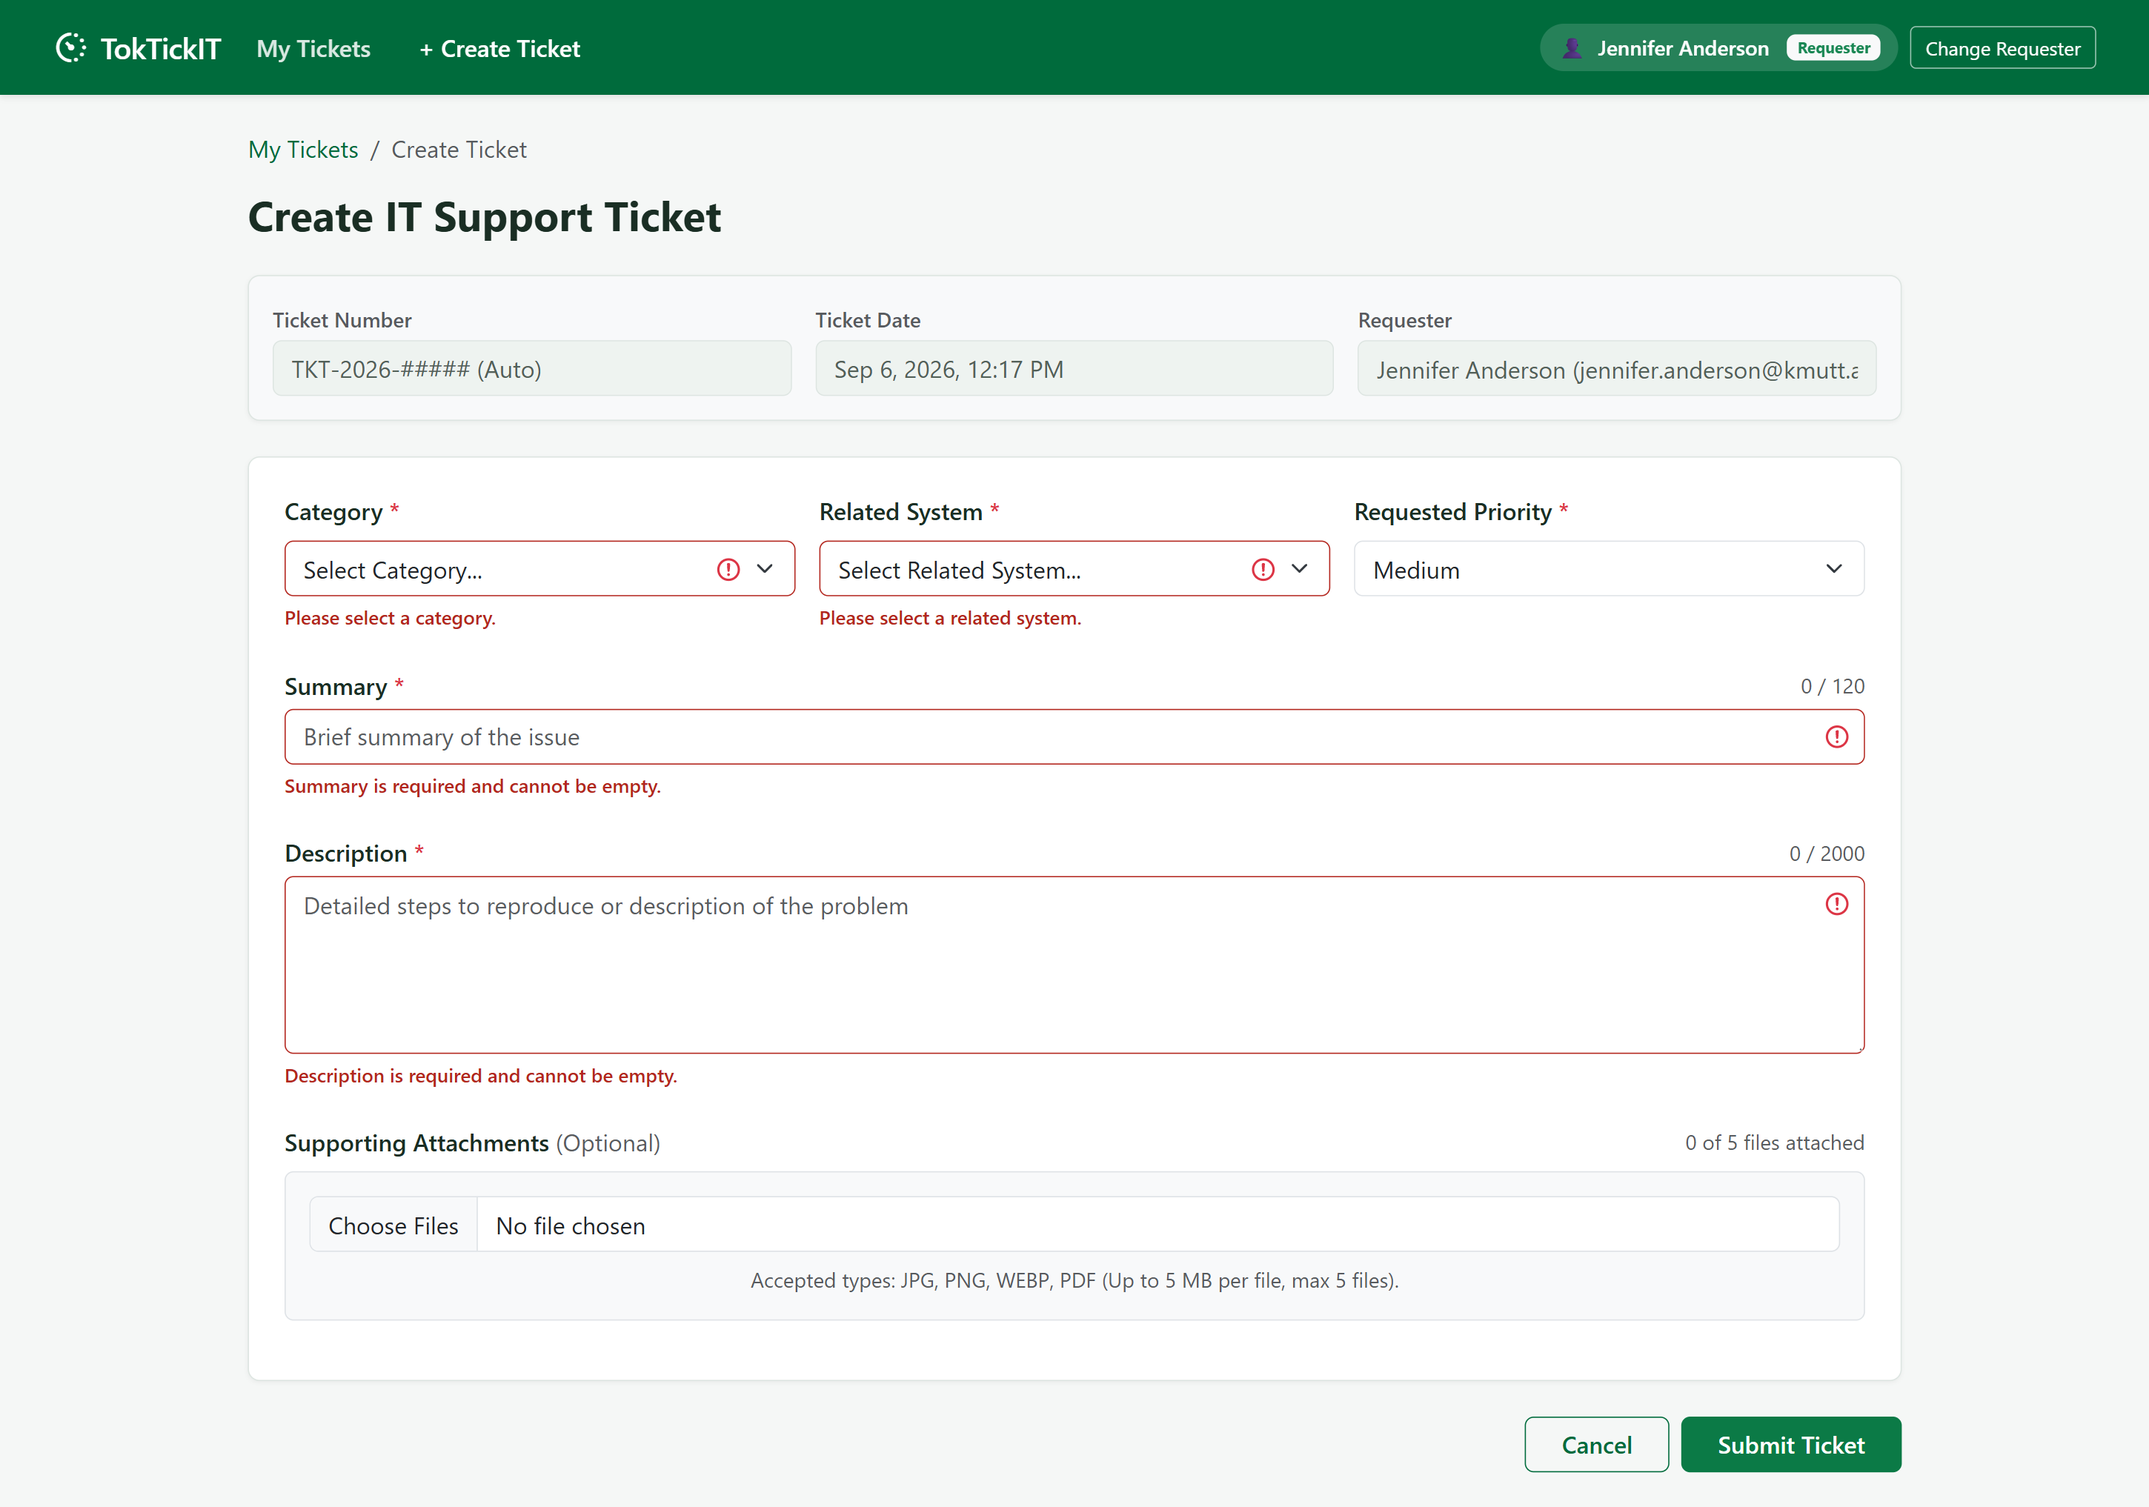
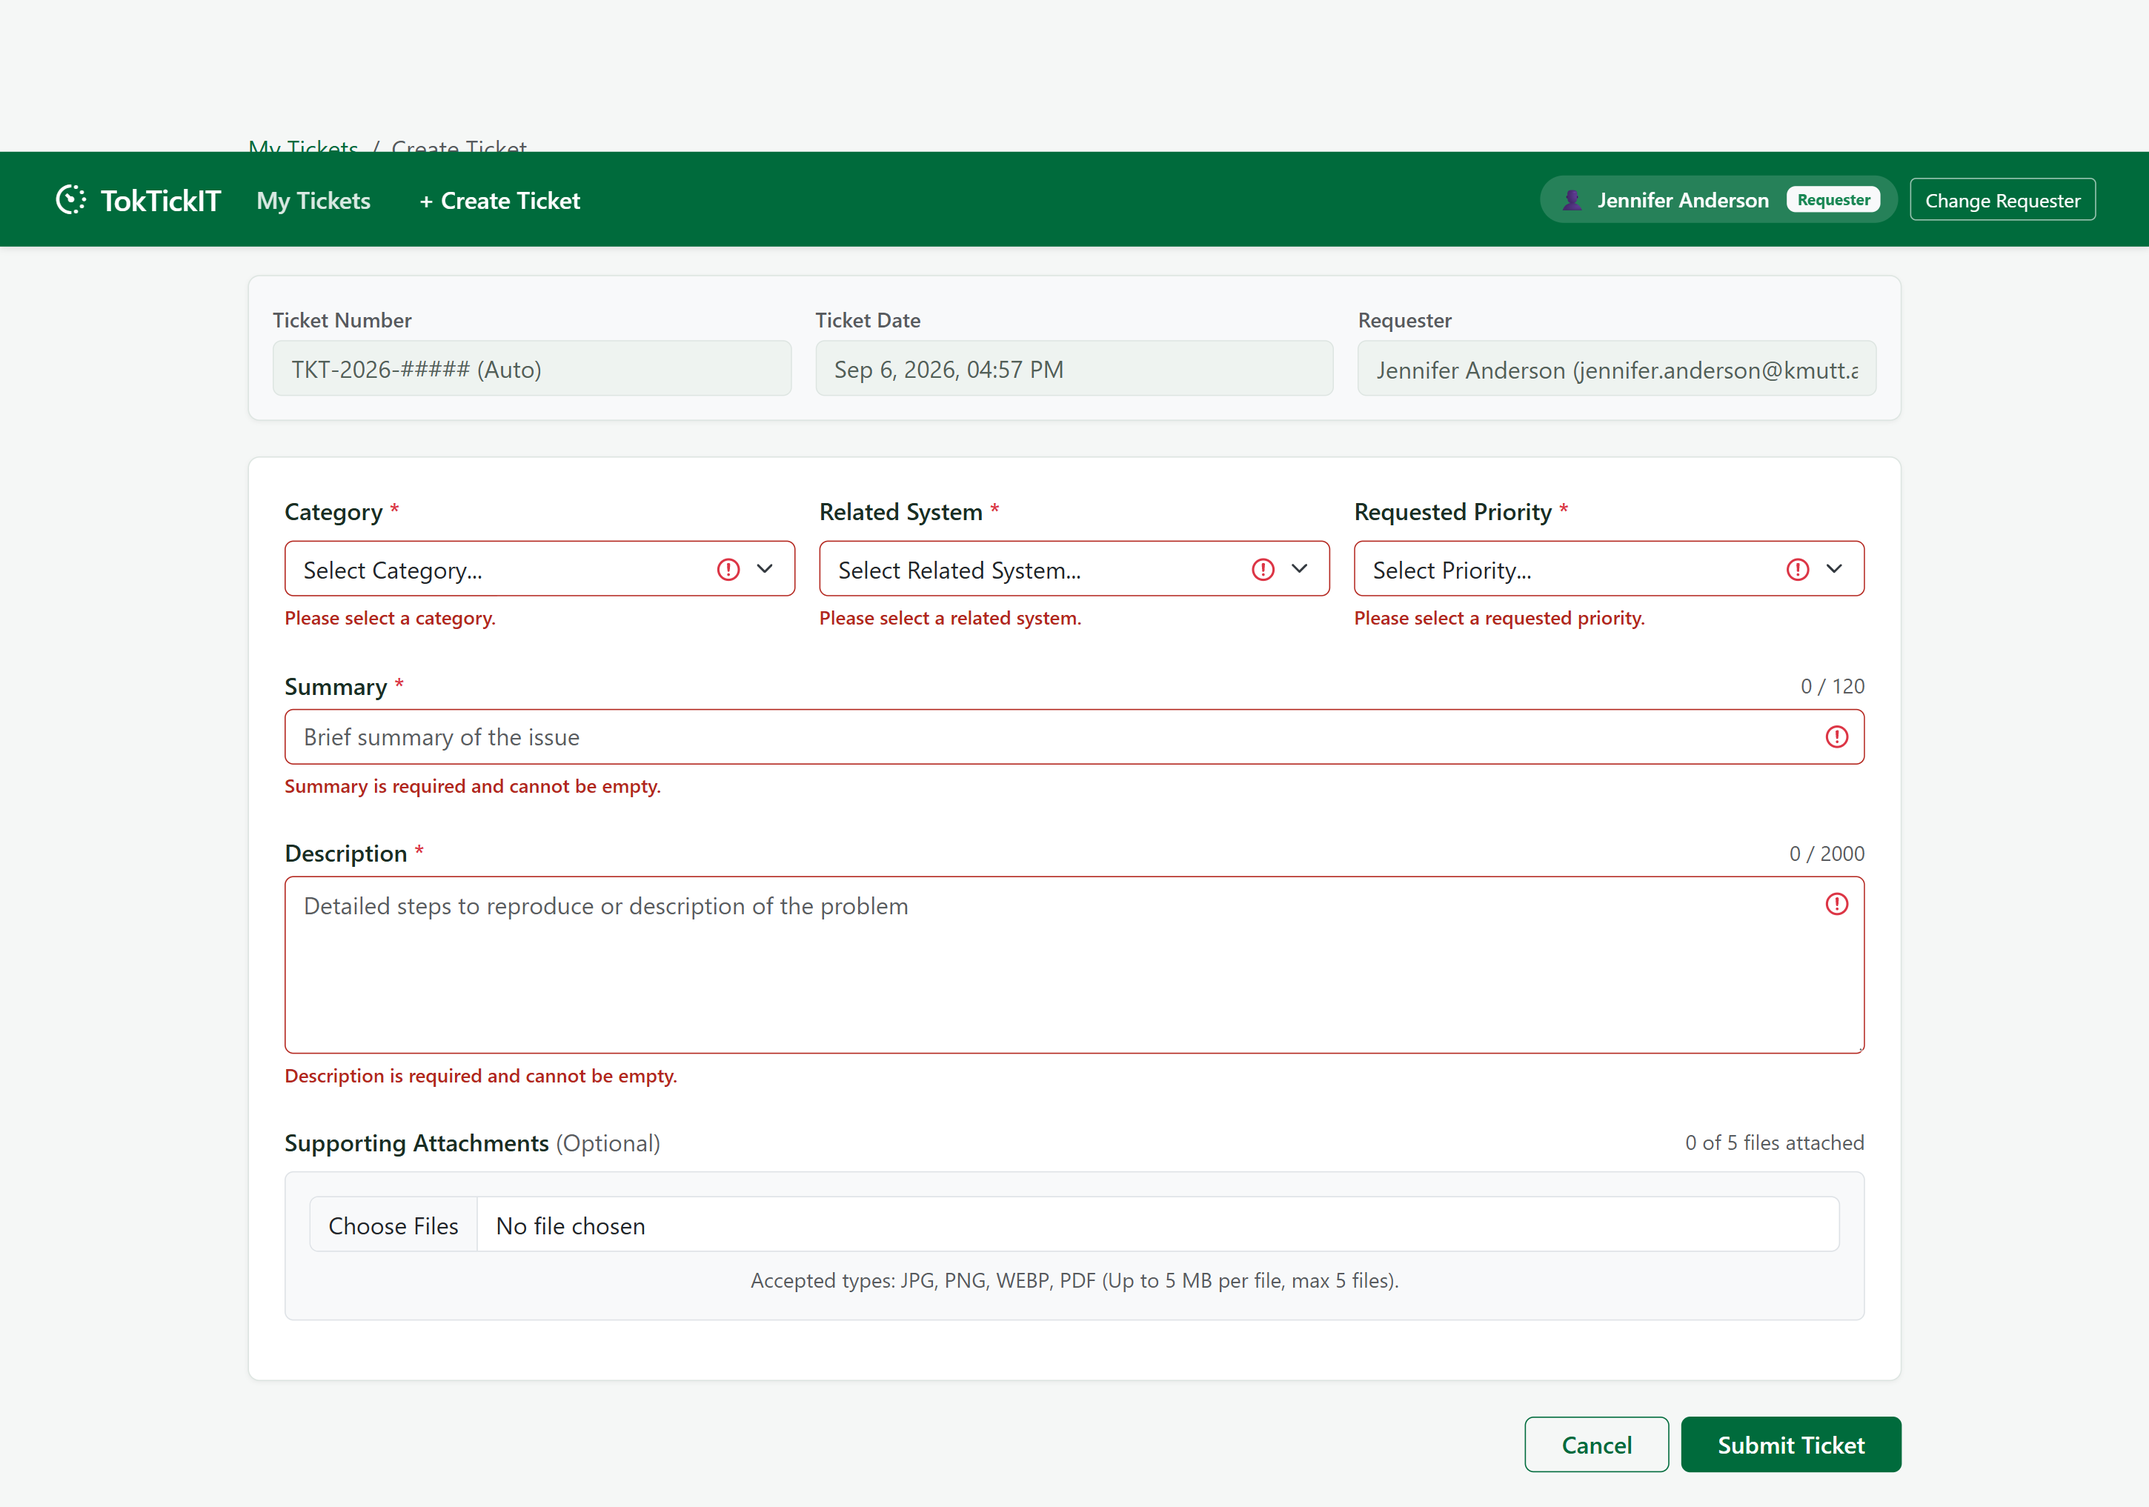
fix create screen priority selection: should be emoty at start

Changed region(s): [[0.0, 0.0929, 1.0, 0.1858], [0.0, 0.0, 1.0, 0.0619], [0.6207, 0.3717, 0.7448, 0.4336]]

diff --git a/client/src/components/CreateTicket.js b/client/src/components/CreateTicket.js
@@ -15,7 +15,7 @@ export default function CreateTicket({ onCancel, onTicketCreated, onViewDetail }
     // Form Fields
     const [categoryId, setCategoryId] = useState("");
     const [relatedSystemId, setRelatedSystemId] = useState("");
-    const [requestedPriority, setRequestedPriority] = useState("MEDIUM");
+    const [requestedPriority, setRequestedPriority] = useState("");
     const [summary, setSummary] = useState("");
     const [description, setDescription] = useState("");
     const [attachments, setAttachments] = useState([]);
@@ -147,6 +147,9 @@ export default function CreateTicket({ onCancel, onTicketCreated, onViewDetail }
         if (!relatedSystemId) {
             newErrors.relatedSystemId = "Please select a related system.";
         }
+        if (!requestedPriority) {
+            newErrors.requestedPriority = "Please select a requested priority.";
+        }
         setErrors(newErrors);
         return Object.keys(newErrors).length === 0;
     };
@@ -209,6 +212,8 @@ export default function CreateTicket({ onCancel, onTicketCreated, onViewDetail }
                             apiFieldErrors.categoryId = fe.message;
                         if (fe.field === "relatedSystemId")
                             apiFieldErrors.relatedSystemId = fe.message;
+                        if (fe.field === "requestedPriority")
+                            apiFieldErrors.requestedPriority = fe.message;
                     }
                     setErrors(apiFieldErrors);
                 }
@@ -247,7 +252,11 @@ export default function CreateTicket({ onCancel, onTicketCreated, onViewDetail }
                                                     setRelatedSystemId(e.target.value);
                                                     if (errors.relatedSystemId)
                                                         setErrors((prev) => ({ ...prev, relatedSystemId: undefined }));
-                                                }, disabled: loadingRefData, children: [_jsx("option", { value: "", children: loadingRefData ? "Loading systems..." : "Select Related System..." }), systems.map((s) => (_jsx("option", { value: s.id, children: s.name }, s.id)))] }), errors.relatedSystemId && (_jsx("div", { className: "zen-field-error", role: "alert", children: errors.relatedSystemId }))] }), _jsxs("div", { className: "col-md-4", children: [_jsxs("label", { htmlFor: "requestedPriority", className: "form-label fw-semibold", children: ["Requested Priority ", _jsx("span", { className: "text-danger", children: "*" })] }), _jsxs("select", { id: "requestedPriority", className: "form-select", value: requestedPriority, onChange: (e) => setRequestedPriority(e.target.value), children: [_jsx("option", { value: "LOW", children: "Low" }), _jsx("option", { value: "MEDIUM", children: "Medium" }), _jsx("option", { value: "HIGH", children: "High" }), _jsx("option", { value: "URGENT", children: "Urgent" })] })] })] }), _jsxs("div", { className: "mb-4", children: [_jsxs("div", { className: "d-flex justify-content-between align-items-center mb-1", children: [_jsxs("label", { htmlFor: "summary", className: "form-label fw-semibold mb-0", children: ["Summary ", _jsx("span", { className: "text-danger", children: "*" })] }), _jsxs("span", { className: "small text-muted", children: [summary.length, " / 120"] })] }), _jsx("input", { id: "summary", type: "text", className: `form-control ${errors.summary ? "is-invalid" : ""}`, placeholder: "Brief summary of the issue", value: summary, maxLength: 120, onChange: (e) => {
+                                                }, disabled: loadingRefData, children: [_jsx("option", { value: "", children: loadingRefData ? "Loading systems..." : "Select Related System..." }), systems.map((s) => (_jsx("option", { value: s.id, children: s.name }, s.id)))] }), errors.relatedSystemId && (_jsx("div", { className: "zen-field-error", role: "alert", children: errors.relatedSystemId }))] }), _jsxs("div", { className: "col-md-4", children: [_jsxs("label", { htmlFor: "requestedPriority", className: "form-label fw-semibold", children: ["Requested Priority ", _jsx("span", { className: "text-danger", children: "*" })] }), _jsxs("select", { id: "requestedPriority", className: `form-select ${errors.requestedPriority ? "is-invalid" : ""}`, value: requestedPriority, onChange: (e) => {
+                                                    setRequestedPriority(e.target.value);
+                                                    if (errors.requestedPriority)
+                                                        setErrors((prev) => ({ ...prev, requestedPriority: undefined }));
+                                                }, children: [_jsx("option", { value: "", children: "Select Priority..." }), _jsx("option", { value: "LOW", children: "Low" }), _jsx("option", { value: "MEDIUM", children: "Medium" }), _jsx("option", { value: "HIGH", children: "High" }), _jsx("option", { value: "URGENT", children: "Urgent" })] }), errors.requestedPriority && (_jsx("div", { className: "zen-field-error", role: "alert", children: errors.requestedPriority }))] })] }), _jsxs("div", { className: "mb-4", children: [_jsxs("div", { className: "d-flex justify-content-between align-items-center mb-1", children: [_jsxs("label", { htmlFor: "summary", className: "form-label fw-semibold mb-0", children: ["Summary ", _jsx("span", { className: "text-danger", children: "*" })] }), _jsxs("span", { className: "small text-muted", children: [summary.length, " / 120"] })] }), _jsx("input", { id: "summary", type: "text", className: `form-control ${errors.summary ? "is-invalid" : ""}`, placeholder: "Brief summary of the issue", value: summary, maxLength: 120, onChange: (e) => {
                                             setSummary(e.target.value);
                                             if (errors.summary)
                                                 setErrors((prev) => ({ ...prev, summary: undefined }));

diff --git a/client/tests/lab-02/CreateTicket.test.js b/client/tests/lab-02/CreateTicket.test.js
@@ -66,9 +66,9 @@ describe("Create Ticket Screen (UI-02, UI-03, UI-04, UI-09)", () => {
             expect(screen.getByRole("option", { name: "Hardware" })).toBeInTheDocument();
             expect(screen.getByRole("option", { name: "Corporate Laptop" })).toBeInTheDocument();
         });
-        // Requested priority defaults to Medium
+        // Requested priority defaults to empty placeholder
         const prioritySelect = screen.getByLabelText(/requested priority/i);
-        expect(prioritySelect).toHaveValue("MEDIUM");
+        expect(prioritySelect).toHaveValue("");
     });
     it("UI-03: validates required fields on client submission without calling API", async () => {
         const fetchSpy = vi.spyOn(globalThis, "fetch");
@@ -83,6 +83,7 @@ describe("Create Ticket Screen (UI-02, UI-03, UI-04, UI-09)", () => {
             expect(screen.getByText(/summary is required/i)).toBeInTheDocument();
             expect(screen.getByText(/description is required/i)).toBeInTheDocument();
             expect(screen.getByText(/please select a category/i)).toBeInTheDocument();
+            expect(screen.getByText(/please select a requested priority/i)).toBeInTheDocument();
         });
     });
     it("UI-04: shows busy spinner during submission and displays success banner with Ticket Number", async () => {
@@ -113,6 +114,7 @@ describe("Create Ticket Screen (UI-02, UI-03, UI-04, UI-09)", () => {
         // Fill form
         fireEvent.change(screen.getByLabelText(/category/i), { target: { value: "4" } });
         fireEvent.change(screen.getByLabelText(/related system/i), { target: { value: "4" } });
+        fireEvent.change(screen.getByLabelText(/requested priority/i), { target: { value: "HIGH" } });
         fireEvent.change(screen.getByLabelText(/summary/i), {
             target: { value: "VPN connection dropping repeatedly" },
         });
@@ -153,6 +155,7 @@ describe("Create Ticket Screen (UI-02, UI-03, UI-04, UI-09)", () => {
         const descText = "Detailed steps to reproduce the issue on the corporate laptop.";
         fireEvent.change(screen.getByLabelText(/category/i), { target: { value: "2" } });
         fireEvent.change(screen.getByLabelText(/related system/i), { target: { value: "2" } });
+        fireEvent.change(screen.getByLabelText(/requested priority/i), { target: { value: "MEDIUM" } });
         fireEvent.change(screen.getByLabelText(/summary/i), { target: { value: summaryText } });
         fireEvent.change(screen.getByLabelText(/description/i), { target: { value: descText } });
         fireEvent.click(screen.getByRole("button", { name: /submit ticket/i }));
@@ -165,5 +168,6 @@ describe("Create Ticket Screen (UI-02, UI-03, UI-04, UI-09)", () => {
         expect(screen.getByLabelText(/description/i)).toHaveValue(descText);
         expect(screen.getByLabelText(/category/i)).toHaveValue("2");
         expect(screen.getByLabelText(/related system/i)).toHaveValue("2");
+        expect(screen.getByLabelText(/requested priority/i)).toHaveValue("MEDIUM");
     });
 });

diff --git a/client/src/components/CreateTicket.tsx b/client/src/components/CreateTicket.tsx
@@ -29,6 +29,7 @@ interface FormErrors {
   description?: string;
   categoryId?: string;
   relatedSystemId?: string;
+  requestedPriority?: string;
   attachments?: string;
 }
 
@@ -43,7 +44,7 @@ export default function CreateTicket({ onCancel, onTicketCreated, onViewDetail }
   // Form Fields
   const [categoryId, setCategoryId] = useState<string>("");
   const [relatedSystemId, setRelatedSystemId] = useState<string>("");
-  const [requestedPriority, setRequestedPriority] = useState<string>("MEDIUM");
+  const [requestedPriority, setRequestedPriority] = useState<string>("");
   const [summary, setSummary] = useState<string>("");
   const [description, setDescription] = useState<string>("");
   const [attachments, setAttachments] = useState<File[]>([]);
@@ -191,6 +192,10 @@ export default function CreateTicket({ onCancel, onTicketCreated, onViewDetail }
       newErrors.relatedSystemId = "Please select a related system.";
     }
 
+    if (!requestedPriority) {
+      newErrors.requestedPriority = "Please select a requested priority.";
+    }
+
     setErrors(newErrors);
     return Object.keys(newErrors).length === 0;
   };
@@ -257,6 +262,7 @@ export default function CreateTicket({ onCancel, onTicketCreated, onViewDetail }
             if (fe.field === "description") apiFieldErrors.description = fe.message;
             if (fe.field === "categoryId") apiFieldErrors.categoryId = fe.message;
             if (fe.field === "relatedSystemId") apiFieldErrors.relatedSystemId = fe.message;
+            if (fe.field === "requestedPriority") apiFieldErrors.requestedPriority = fe.message;
           }
           setErrors(apiFieldErrors);
         }
@@ -475,15 +481,24 @@ export default function CreateTicket({ onCancel, onTicketCreated, onViewDetail }
               </label>
               <select
                 id="requestedPriority"
-                className="form-select"
+                className={`form-select ${errors.requestedPriority ? "is-invalid" : ""}`}
                 value={requestedPriority}
-                onChange={(e) => setRequestedPriority(e.target.value)}
+                onChange={(e) => {
+                  setRequestedPriority(e.target.value);
+                  if (errors.requestedPriority) setErrors((prev) => ({ ...prev, requestedPriority: undefined }));
+                }}
               >
+                <option value="">Select Priority...</option>
                 <option value="LOW">Low</option>
                 <option value="MEDIUM">Medium</option>
                 <option value="HIGH">High</option>
                 <option value="URGENT">Urgent</option>
               </select>
+              {errors.requestedPriority && (
+                <div className="zen-field-error" role="alert">
+                  {errors.requestedPriority}
+                </div>
+              )}
             </div>
           </div>
 

diff --git a/client/tests/lab-02/CreateTicket.test.tsx b/client/tests/lab-02/CreateTicket.test.tsx
@@ -82,9 +82,9 @@ describe("Create Ticket Screen (UI-02, UI-03, UI-04, UI-09)", () => {
       expect(screen.getByRole("option", { name: "Corporate Laptop" })).toBeInTheDocument();
     });
 
-    // Requested priority defaults to Medium
+    // Requested priority defaults to empty placeholder
     const prioritySelect = screen.getByLabelText(/requested priority/i);
-    expect(prioritySelect).toHaveValue("MEDIUM");
+    expect(prioritySelect).toHaveValue("");
   });
 
   it("UI-03: validates required fields on client submission without calling API", async () => {
@@ -105,6 +105,7 @@ describe("Create Ticket Screen (UI-02, UI-03, UI-04, UI-09)", () => {
       expect(screen.getByText(/summary is required/i)).toBeInTheDocument();
       expect(screen.getByText(/description is required/i)).toBeInTheDocument();
       expect(screen.getByText(/please select a category/i)).toBeInTheDocument();
+      expect(screen.getByText(/please select a requested priority/i)).toBeInTheDocument();
     });
   });
 
@@ -137,6 +138,7 @@ describe("Create Ticket Screen (UI-02, UI-03, UI-04, UI-09)", () => {
     // Fill form
     fireEvent.change(screen.getByLabelText(/category/i), { target: { value: "4" } });
     fireEvent.change(screen.getByLabelText(/related system/i), { target: { value: "4" } });
+    fireEvent.change(screen.getByLabelText(/requested priority/i), { target: { value: "HIGH" } });
     fireEvent.change(screen.getByLabelText(/summary/i), {
       target: { value: "VPN connection dropping repeatedly" },
     });
@@ -182,6 +184,7 @@ describe("Create Ticket Screen (UI-02, UI-03, UI-04, UI-09)", () => {
 
     fireEvent.change(screen.getByLabelText(/category/i), { target: { value: "2" } });
     fireEvent.change(screen.getByLabelText(/related system/i), { target: { value: "2" } });
+    fireEvent.change(screen.getByLabelText(/requested priority/i), { target: { value: "MEDIUM" } });
     fireEvent.change(screen.getByLabelText(/summary/i), { target: { value: summaryText } });
     fireEvent.change(screen.getByLabelText(/description/i), { target: { value: descText } });
 
@@ -197,5 +200,6 @@ describe("Create Ticket Screen (UI-02, UI-03, UI-04, UI-09)", () => {
     expect(screen.getByLabelText(/description/i)).toHaveValue(descText);
     expect(screen.getByLabelText(/category/i)).toHaveValue("2");
     expect(screen.getByLabelText(/related system/i)).toHaveValue("2");
+    expect(screen.getByLabelText(/requested priority/i)).toHaveValue("MEDIUM");
   });
 });
